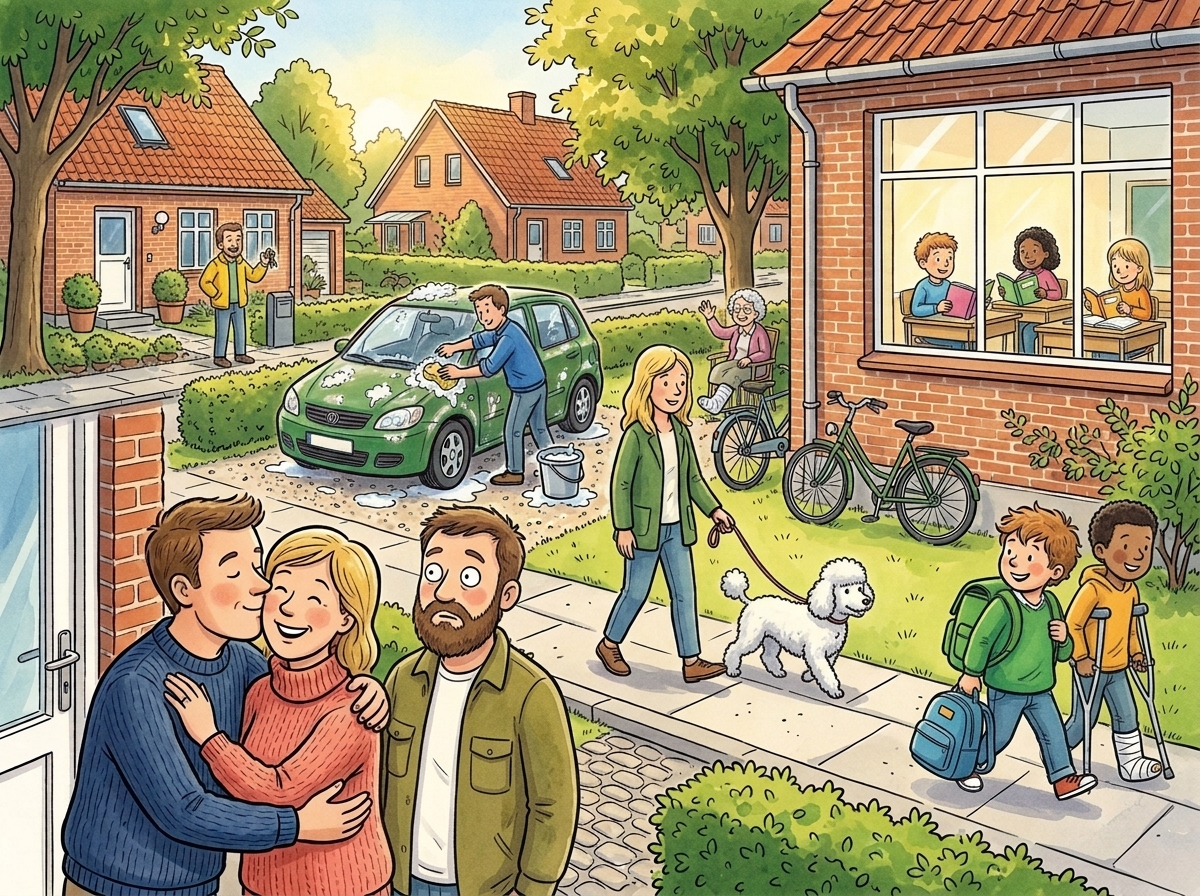
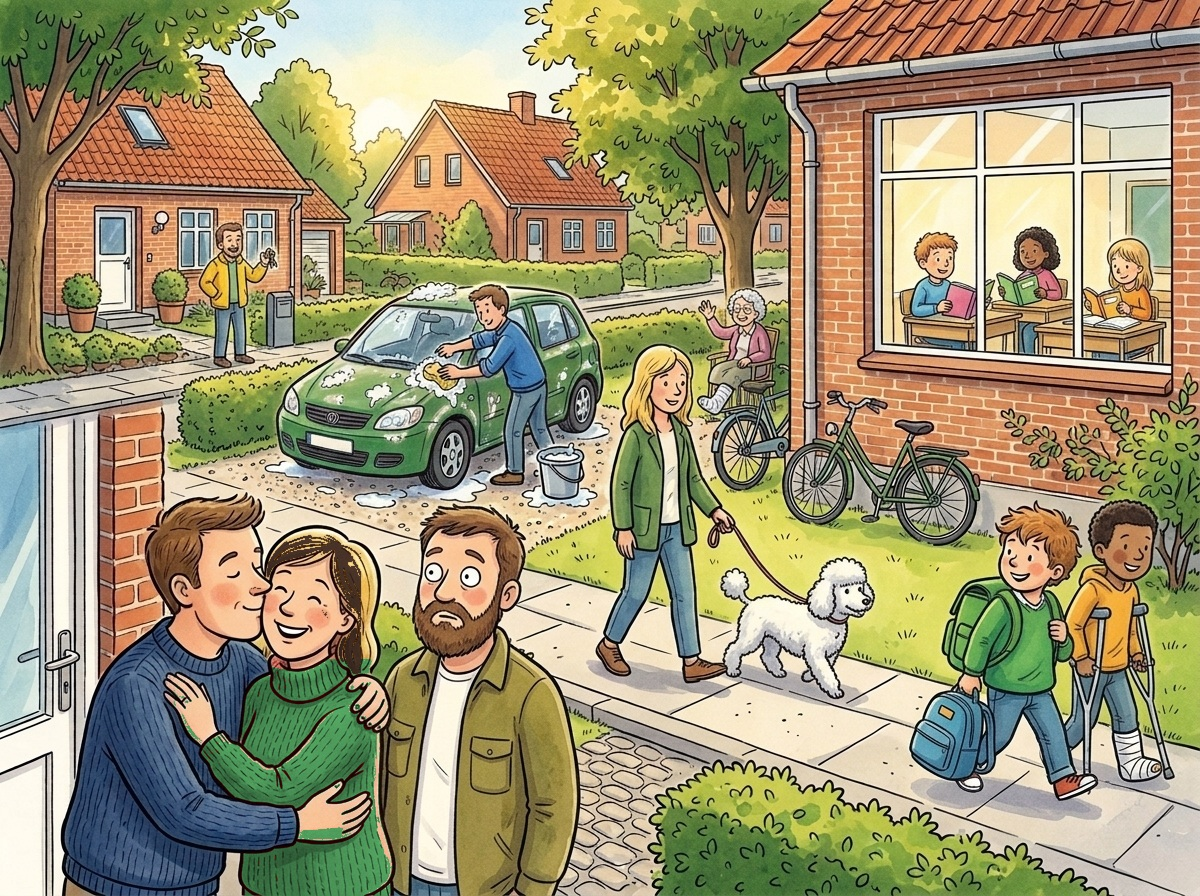
Præciser 'Retning over tærsklen' og skift kvinden i højre sin/hans-billede til mørkhåret i grøn trøje

Changed region(s): [[0.1542, 0.5938, 0.3392, 1.0]]

diff --git a/src/views/SansningSinHansView.js b/src/views/SansningSinHansView.js
@@ -23,8 +23,8 @@ export function renderSansningSinHansView(container, navigateFn, extraData = {})
             rightPos: { x: 21, y: 78 },
             leftSent: 'Manden kysser <span class="ss-box-verb-highlight">sin</span> kone.',
             rightSent: 'Manden kysser <span class="ss-box-verb-highlight">hans</span> kone.',
-            leftExp: 'Kvinden tilhører subjektets egen kropslige og nære sfære. På dansk peger <strong>sin</strong> tilbage på sætningens handlingssubjekt.',
-            rightExp: 'Nu peger ordet ud mod naboen ved siden af! <strong>Hans</strong> fortæller øjeblikkeligt, at kvinden tilhører en anden mand.',
+            leftExp: 'Den blonde kvinde i rød trøje tilhører subjektets egen nære sfære. På dansk peger <strong>sin</strong> tilbage på sætningens handlingssubjekt.',
+            rightExp: 'Nu kysser han den mørkhårede kvinde i grøn trøje, mens naboen står chokeret lige ved siden af! <strong>Hans</strong> fortæller øjeblikkeligt, at det er en anden mands kone.',
             aha: 'Et eneste bogstav forandrer hele dramaet: <strong>sin</strong> binder sammen inden for samme person; <strong>hans</strong> skaber afstand til en anden.',
             langs: {
                 en: 'his (own) wife vs. his (another man’s) wife',

diff --git a/src/views/SansningFlade2RumTidView.js b/src/views/SansningFlade2RumTidView.js
@@ -685,7 +685,7 @@ export function renderSansningFlade2RumTidView(container, navigateFn, extraData 
                     <span class="gs-realm-ex-word">Jeg SPISTE i går</span>
                 </div>
                 <div class="gs-realm-ex-item">
-                    <span>Vektor over tærsklen:</span>
+                    <span>Retning over tærsklen:</span>
                     <span class="gs-realm-ex-word">Vi tager HJEM</span>
                 </div>
                 <div class="gs-realm-ex-item">
@@ -829,7 +829,7 @@ export function renderSansningFlade2RumTidView(container, navigateFn, extraData 
             tag: 'Zone vs. tærskel',
             accent: '#34d399',
             title: 'Rummet og tærsklen (-e vs. kort)',
-            sub: 'Roen inden for en kendt zone (hjemme, inde, oppe) over for vektoren der krydser tærsklen (hjem, ind, op).',
+            sub: 'Roen inden for en kendt zone (hjemme, inde, oppe) over for bevægelsen der krydser tærsklen (hjem, ind, op).',
             leftImg: `${baseUrl}assets/sansning_rummet_venstre.jpg`,
             rightImg: `${baseUrl}assets/sansning_rummet_hoejre.jpg`,
             leftLabel: 'Ro (-e form)',

diff --git a/index.html b/index.html
@@ -6,7 +6,7 @@
     <meta http-equiv="Cache-Control" content="no-cache, no-store, must-revalidate" />
     <meta http-equiv="Pragma" content="no-cache" />
     <meta http-equiv="Expires" content="0" />
-    <meta name="version" content="2026.11.12.2330" />
+    <meta name="version" content="2026.11.12.2345" />
     <title>Træning i dansk</title>
     <!-- Google Fonts for modern typography -->
     <link rel="preconnect" href="https://fonts.googleapis.com">
